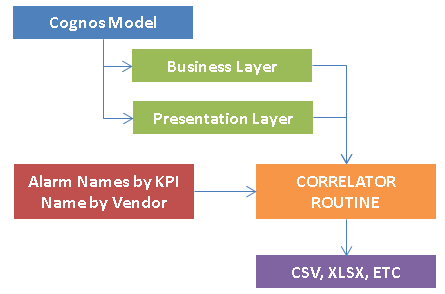
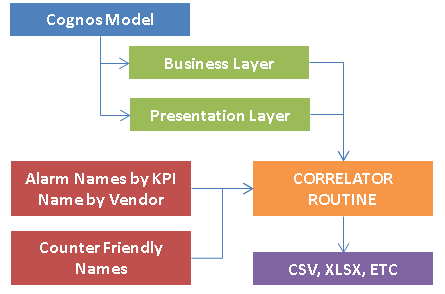
Updated README

Changed region(s): [[0.0, 0.0, 0.9933, 0.9796]]

diff --git a/README.md b/README.md
@@ -43,6 +43,9 @@ Mapping Business Layer and Presentation Layer with Alarm Information.
 2. -DalarmModelFile
    - Excel file that consist of Alarm information that maps each KPI to respective Alarm Names by Vendor.
 
+3. -DcounterFriendlyNameFile
+   - CSV file that consist of Counter FQN to friendly name.
+
 ## Optional Argument
 1. -Djava.util.logging.config
    - `logging.properties` file usually for debugging purpose.
@@ -54,6 +57,7 @@ Mapping Business Layer and Presentation Layer with Alarm Information.
 ```java
 -DcognosModelFile=D:\development\_assignment\TNPM-Cognos-CrossLaunch-Definition\resource\model.xml
 -DalarmModelFile=D:\development\_assignment\TNPM-Cognos-CrossLaunch-Definition\resource\alarm_threshold.xlsx
+-DcounterFriendlyNameFile=D:\development\_assignment\TNPM-Cognos-CrossLaunch-Definition\resource\counterFriendlyNames.csv
 -DoutputFolder=D:\development\_assignment\TNPM-Cognos-CrossLaunch-Definition\output\
 -Djava.util.logging.config.file=D:\development\_assignment\TNPM-Cognos-CrossLaunch-Definition\resource\logging.properties
 ```
